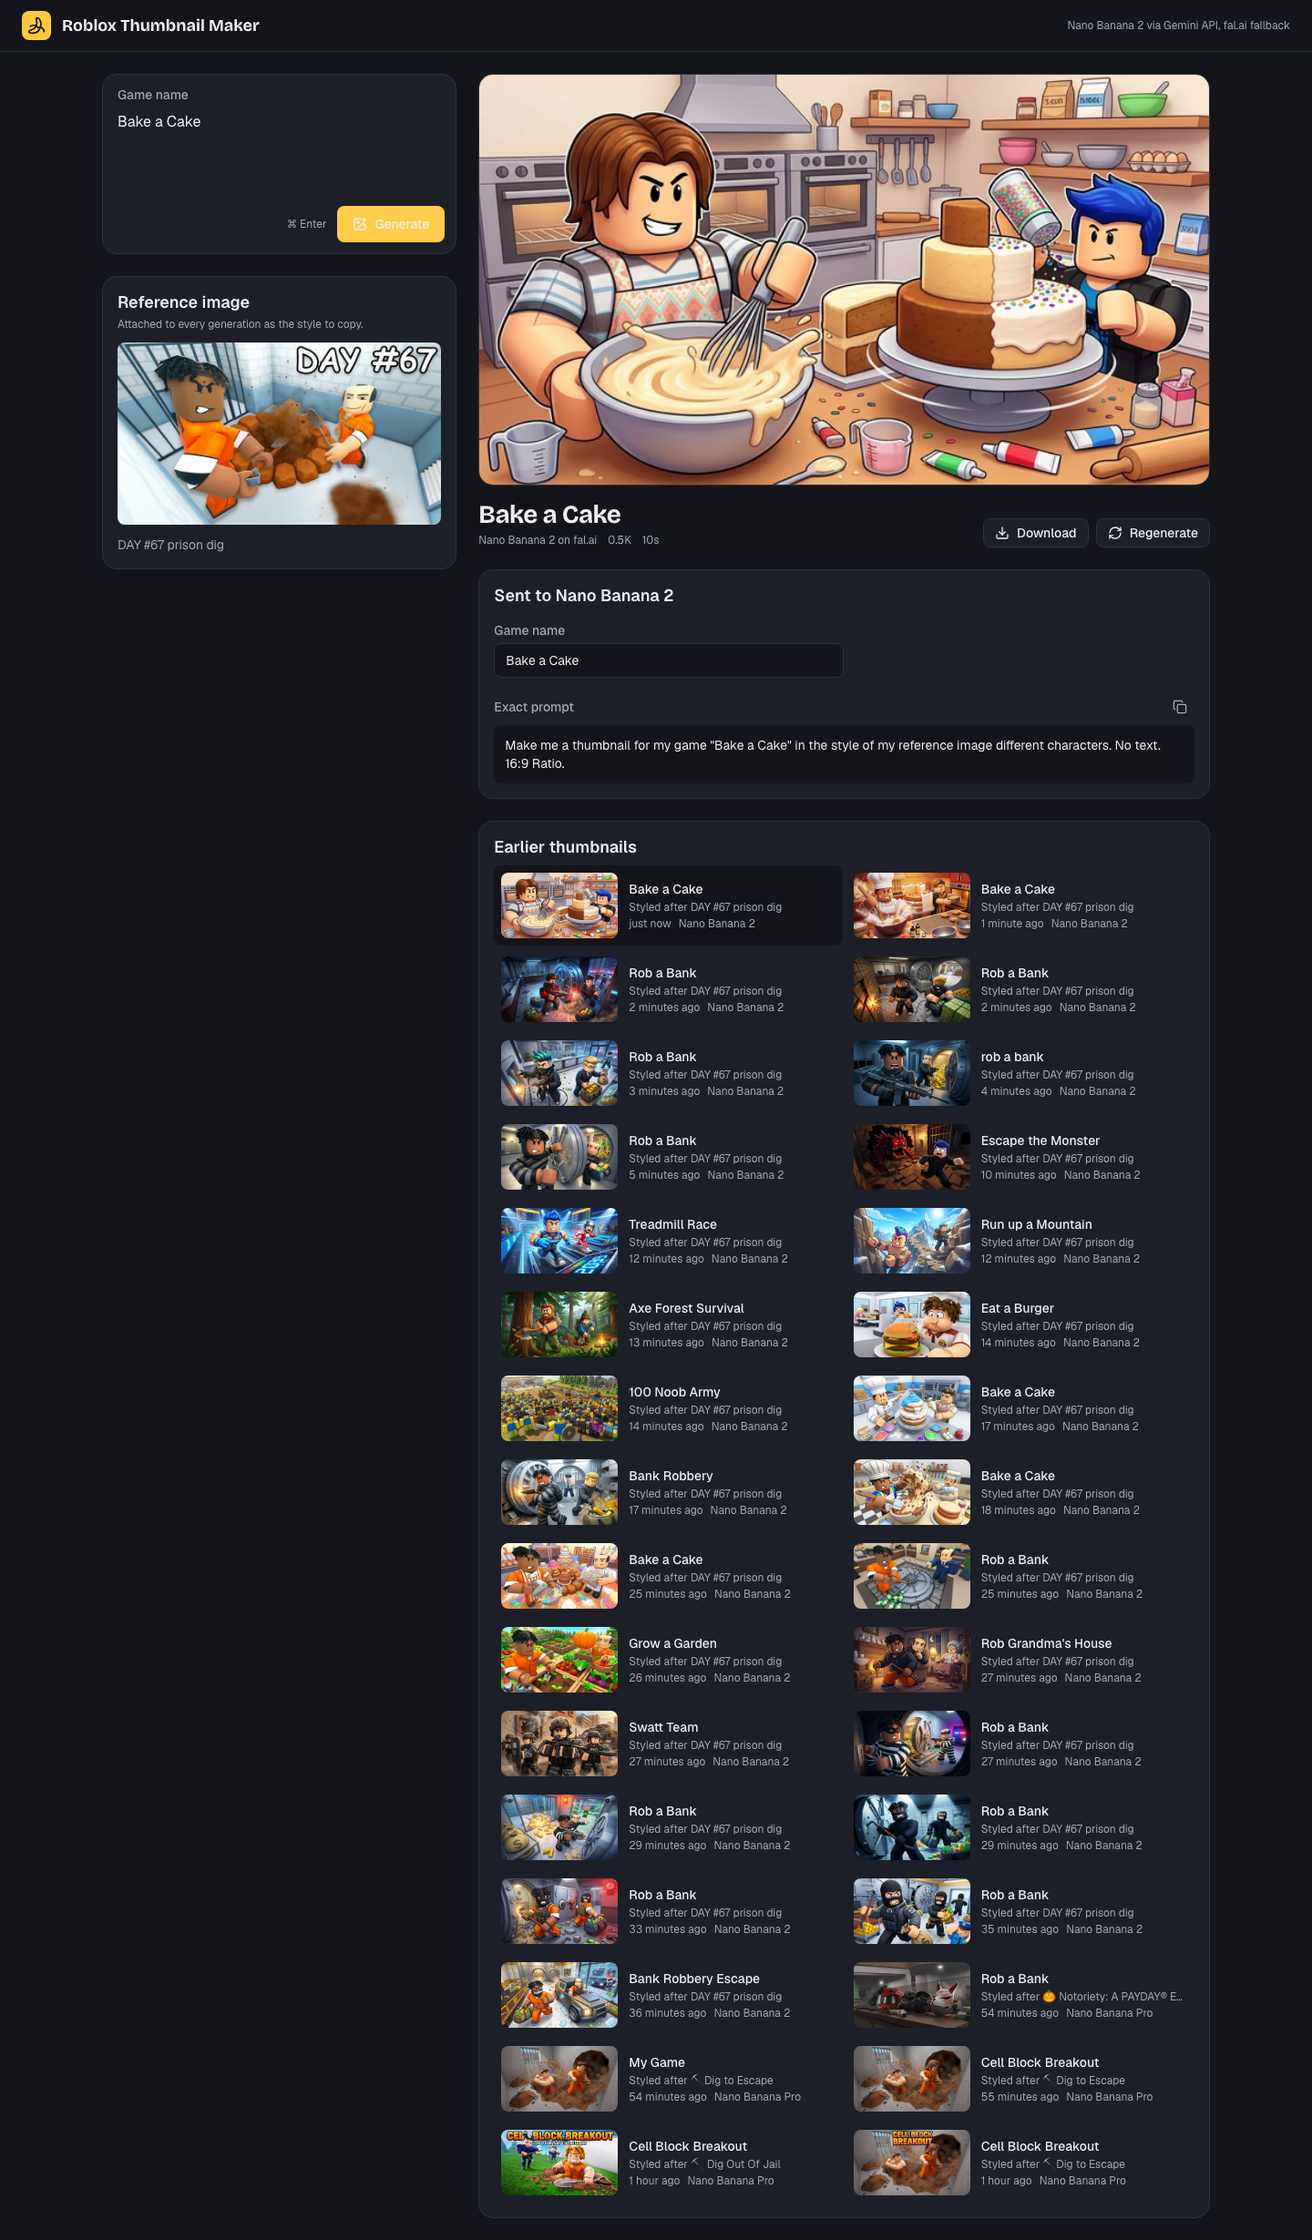
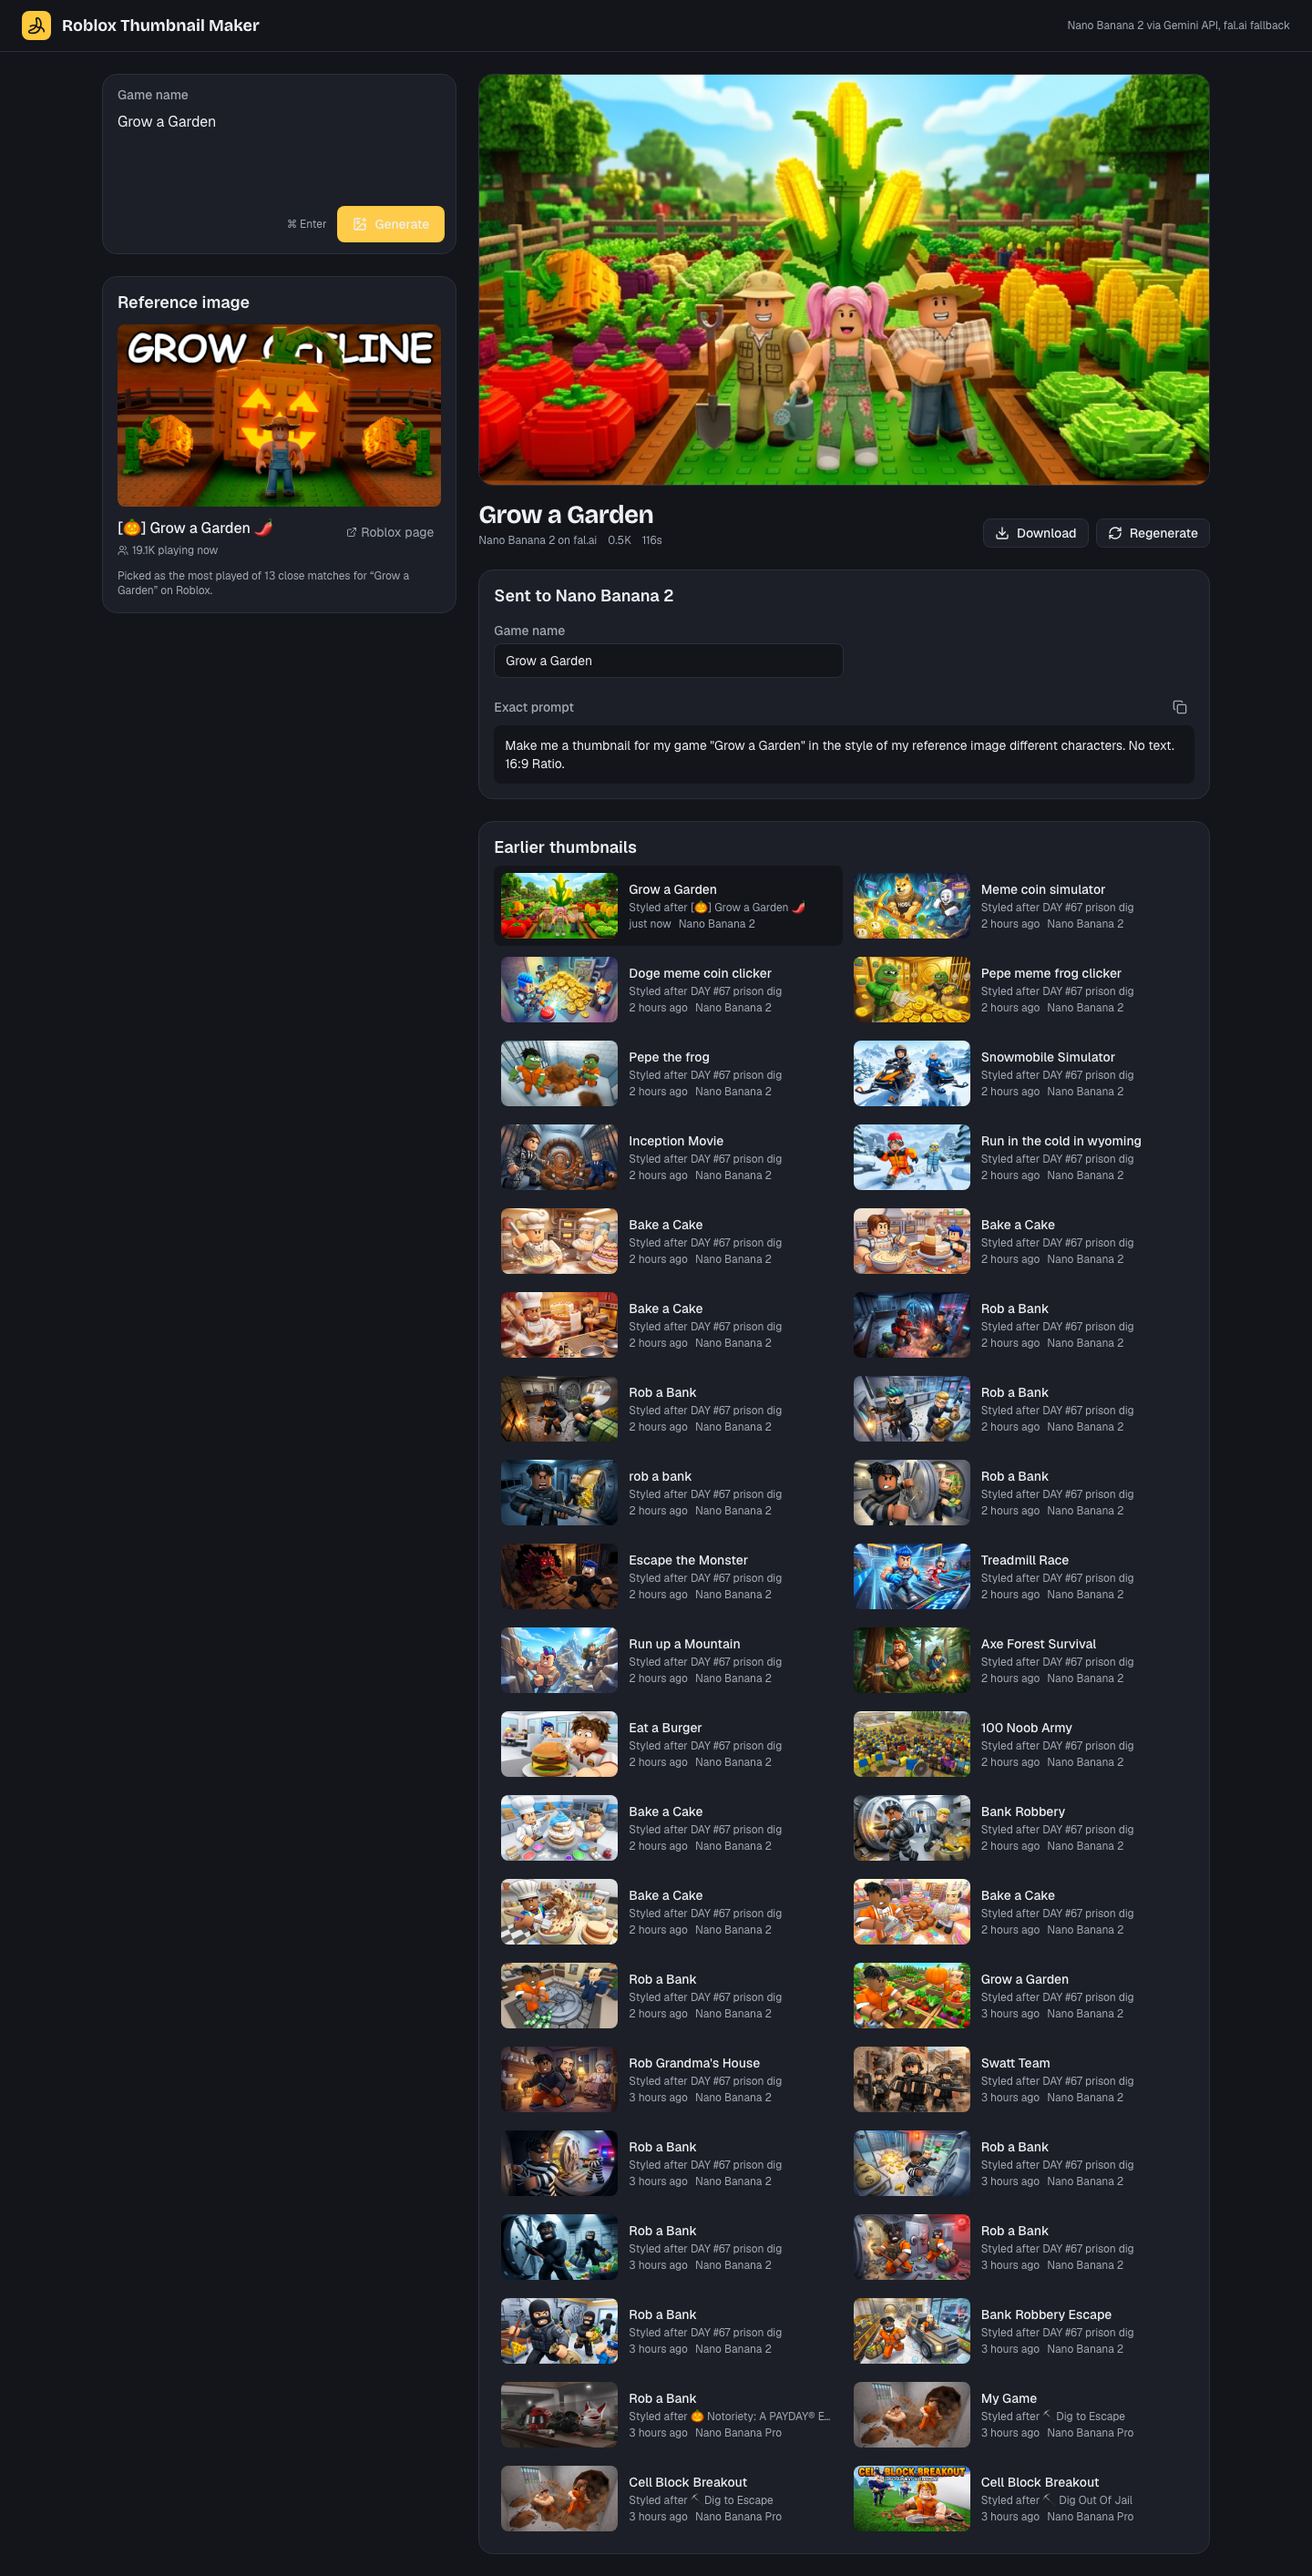
Pick the reference per game: most-played Roblox game matching the name

Changed region(s): [[0.0625, 0.0, 0.9375, 0.989], [0.625, 0.3091, 0.875, 0.989], [0.0, 0.0, 0.1875, 0.0618]]

diff --git a/src/components/ReferenceCard.tsx b/src/components/ReferenceCard.tsx
@@ -1,17 +1,69 @@
+import { ExternalLink, Users } from 'lucide-react'
+import { formatCount, type Reference } from '../lib/api'
+
 interface ReferenceCardProps {
-  name: string
-  url: string
+  reference: Reference | null
+  gameName: string
+  loading: boolean
 }
 
-export function ReferenceCard({ name, url }: ReferenceCardProps) {
+function caption(reference: Reference, gameName: string) {
+  if (reference.source === 'fallback') return `No Roblox game matches “${gameName}”, so the default reference is used.`
+  const of = reference.nearCount === 1 ? 'the only close match' : `the most played of ${reference.nearCount ?? 'the'} close matches`
+  return `Picked as ${of} for “${gameName}” on Roblox.`
+}
+
+export function ReferenceCard({ reference, gameName, loading }: ReferenceCardProps) {
   return (
-    <section aria-labelledby="reference-title" className="flex flex-col gap-12 rounded-16 border border-border-default bg-bg-surface p-16">
-      <div className="flex flex-col gap-4">
-        <h2 id="reference-title" className="text-title font-semibold">Reference image</h2>
-        <p className="text-caption text-text-secondary">Attached to every generation as the style to copy.</p>
-      </div>
-      <img src={url} alt={`Reference thumbnail: ${name}`} width={768} height={432} className="aspect-video w-full rounded-8 object-cover" />
-      <span className="text-label text-text-secondary">{name}</span>
+    <section aria-labelledby="reference-title" aria-busy={loading || undefined} className="flex flex-col gap-12 rounded-16 border border-border-default bg-bg-surface p-16">
+      <h2 id="reference-title" className="text-title font-semibold">Reference image</h2>
+
+      {loading && (
+        <div className="flex flex-col gap-8" aria-hidden="true">
+          <div className="aspect-video w-full rounded-8 bg-border-default motion-safe:animate-pulse" />
+          <div className="h-16 w-2/3 rounded-8 bg-border-default motion-safe:animate-pulse" />
+          <div className="h-12 w-1/2 rounded-8 bg-border-default motion-safe:animate-pulse" />
+        </div>
+      )}
+
+      {!loading && !reference && (
+        <p className="text-label text-text-secondary">Each game name gets the most-played matching Roblox game as its style reference.</p>
+      )}
+
+      {!loading && reference && (
+        <>
+          <img
+            src={reference.thumbnailUrl}
+            alt={`Reference thumbnail: ${reference.name}`}
+            width={768}
+            height={432}
+            className="aspect-video w-full rounded-8 object-cover"
+          />
+          <div className="flex items-start justify-between gap-12">
+            <div className="flex min-w-0 flex-col gap-4">
+              <span className="text-body font-medium">{reference.name}</span>
+              {reference.source === 'roblox' && reference.playing != null && (
+                <span className="inline-flex items-center gap-4 text-caption text-text-secondary">
+                  <Users className="size-12" aria-hidden="true" />
+                  {formatCount(reference.playing)} playing now
+                </span>
+              )}
+            </div>
+            {reference.url && (
+              <a
+                href={reference.url}
+                target="_blank"
+                rel="noreferrer"
+                className="focus-ring inline-flex min-h-32 shrink-0 items-center gap-4 rounded-8 px-8 text-label text-text-secondary hover:text-text-primary pointer-coarse:min-h-48"
+              >
+                <ExternalLink className="size-12" aria-hidden="true" />
+                Roblox page
+              </a>
+            )}
+          </div>
+          <p className="text-caption text-text-secondary">{caption(reference, gameName)}</p>
+        </>
+      )}
     </section>
   )
 }

diff --git a/src/App.tsx b/src/App.tsx
@@ -6,7 +6,7 @@ import { PromptBox } from './components/PromptBox'
 import { PromptPanel } from './components/PromptPanel'
 import { ReferenceCard } from './components/ReferenceCard'
 import { ResultStage, type Phase } from './components/ResultStage'
-import { api, modelLabel, providerLabel, type Generation, type Status } from './lib/api'
+import { api, modelLabel, providerLabel, referenceOf, type Generation, type Reference, type Status } from './lib/api'
 
 const EXAMPLES = ['Rob a Bank', 'Make me a roblox thumbnail for my game Lava Leap', 'Grow a Garden']
 const MODEL_NAME = 'Nano Banana 2'
@@ -30,6 +30,8 @@ function slugify(name: string) {
 export function App() {
   const [prompt, setPrompt] = useState('')
   const [gameName, setGameName] = useState('')
+  // The reference and the name it was looked up for: a changed name needs a fresh lookup.
+  const [reference, setReference] = useState<{ forName: string; ref: Reference } | null>(null)
   const [result, setResult] = useState<Generation | null>(null)
   const [phase, setPhase] = useState<Phase>('idle')
   const [error, setError] = useState<string | null>(null)
@@ -48,11 +50,11 @@ export function App() {
     api.status().then(setStatus).catch((err) => console.error('Status load failed', err))
   }, [refreshHistory])
 
-  const generate = async (name: string) => {
+  const generate = async (name: string, ref: Reference) => {
     setPhase('generating')
     setError(null)
     try {
-      const generation = await api.generate({ gameName: name })
+      const generation = await api.generate({ gameName: name, reference: ref })
       setResult(generation)
       setPhase('done')
       refreshHistory()
@@ -69,9 +71,10 @@ export function App() {
     try {
       const plan = await api.plan(text)
       setGameName(plan.gameName)
-      await generate(plan.gameName)
+      setReference({ forName: plan.gameName, ref: plan.reference })
+      await generate(plan.gameName, plan.reference)
     } catch (err) {
-      console.error('Naming failed', err)
+      console.error('Reference lookup failed', err)
       setError((err as Error).message)
       setPhase('error')
     }
@@ -83,11 +86,16 @@ export function App() {
     void run(text)
   }
 
-  const retry = () => (gameName.trim() ? generate(gameName) : run())
+  const retry = () => {
+    const name = gameName.trim()
+    if (!name) return run()
+    return reference?.forName === name ? generate(name, reference.ref) : run(name)
+  }
 
   const openHistory = (item: Generation) => {
     setResult(item)
     setGameName(item.gameName)
+    setReference({ forName: item.gameName, ref: referenceOf(item) })
     setPhase('done')
   }
 
@@ -109,7 +117,7 @@ export function App() {
       <main className="mx-auto grid max-w-7xl grid-cols-1 gap-24 px-16 py-24 sm:px-24 lg:grid-cols-12 lg:px-32">
         <div className="flex min-w-0 flex-col gap-24 lg:col-span-4">
           <PromptBox value={prompt} onChange={setPrompt} onSubmit={() => run()} busy={busy} />
-          {status && <ReferenceCard name={status.referenceName} url={status.referenceUrl} />}
+          <ReferenceCard reference={reference?.ref ?? null} gameName={reference?.forName ?? ''} loading={phase === 'planning'} />
         </div>
 
         <div className="flex min-w-0 flex-col gap-24 lg:col-span-8">

diff --git a/src/lib/api.ts b/src/lib/api.ts
@@ -1,6 +1,19 @@
+/** The style reference: the most-played Roblox game near the name, or the bundled image when none is found. */
+export interface Reference {
+  source: 'roblox' | 'fallback'
+  name: string
+  thumbnailUrl: string
+  universeId?: number
+  placeId?: number
+  playing?: number
+  url?: string
+  nearCount?: number
+}
+
 export interface Plan {
   gameName: string
   prompt: string
+  reference: Reference
 }
 
 export interface Generation {
@@ -10,7 +23,7 @@ export interface Generation {
   gameName: string
   prompt: string
   resolution: string
-  reference: { name: string }
+  reference: Partial<Reference> & { name: string }
   provider: 'gemini' | 'fal'
   model: string
   ms: number
@@ -22,8 +35,7 @@ export interface Status {
   imageProvider: string
   imageModel: string
   falModel: string
-  referenceName: string
-  referenceUrl: string
+  fallbackReferenceName: string
 }
 
 async function request<T>(path: string, init?: RequestInit): Promise<T> {
@@ -38,11 +50,21 @@ async function request<T>(path: string, init?: RequestInit): Promise<T> {
 
 export const api = {
   plan: (prompt: string) => request<Plan>('/api/plan', { method: 'POST', body: JSON.stringify({ prompt }) }),
-  generate: (input: { gameName: string }) =>
+  generate: (input: { gameName: string; reference: Reference }) =>
     request<Generation>('/api/generate', { method: 'POST', body: JSON.stringify(input) }),
   history: () => request<{ items: Generation[] }>('/api/history'),
   status: () => request<Status>('/api/status')
 }
+
+/** Saved results predate the per-game lookup too: those used the bundled image or carried no `source`. */
+export function referenceOf(item: Generation): Reference {
+  const ref = item.reference
+  if (ref.thumbnailUrl?.startsWith('https://')) return { ...ref, source: 'roblox', thumbnailUrl: ref.thumbnailUrl }
+  return { source: 'fallback', name: ref.name, thumbnailUrl: '/api/reference' }
+}
+
+const compact = new Intl.NumberFormat('en', { notation: 'compact', maximumFractionDigits: 1 })
+export const formatCount = (n: number) => compact.format(n)
 
 const relative = new Intl.RelativeTimeFormat('en', { numeric: 'auto' })
 export function formatAgo(iso: string) {

diff --git a/src/components/ResultStage.tsx b/src/components/ResultStage.tsx
@@ -38,7 +38,7 @@ export function ResultStage({ phase, result, gameName, modelName, elapsed, error
       {phase === 'idle' && !result && (
         <div className="absolute inset-0 flex flex-col items-center justify-center gap-16 p-24 text-center">
           <p className="max-w-prose text-body text-text-secondary">
-            Type your game name and its thumbnail lands here, styled after your reference image.
+            Type your game name and its thumbnail lands here, styled after the most-played matching Roblox game.
           </p>
           <Button onClick={onExample}>Try an example</Button>
         </div>
@@ -60,7 +60,7 @@ export function ResultStage({ phase, result, gameName, modelName, elapsed, error
         />
       )}
 
-      {phase === 'planning' && <Working label="Reading your game name" elapsed={elapsed} />}
+      {phase === 'planning' && <Working label="Finding the most-played matching Roblox game" elapsed={elapsed} />}
       {phase === 'generating' && <Working label={`${modelName} is drawing ${gameName}`} elapsed={elapsed} />}
 
       {phase === 'error' && (
